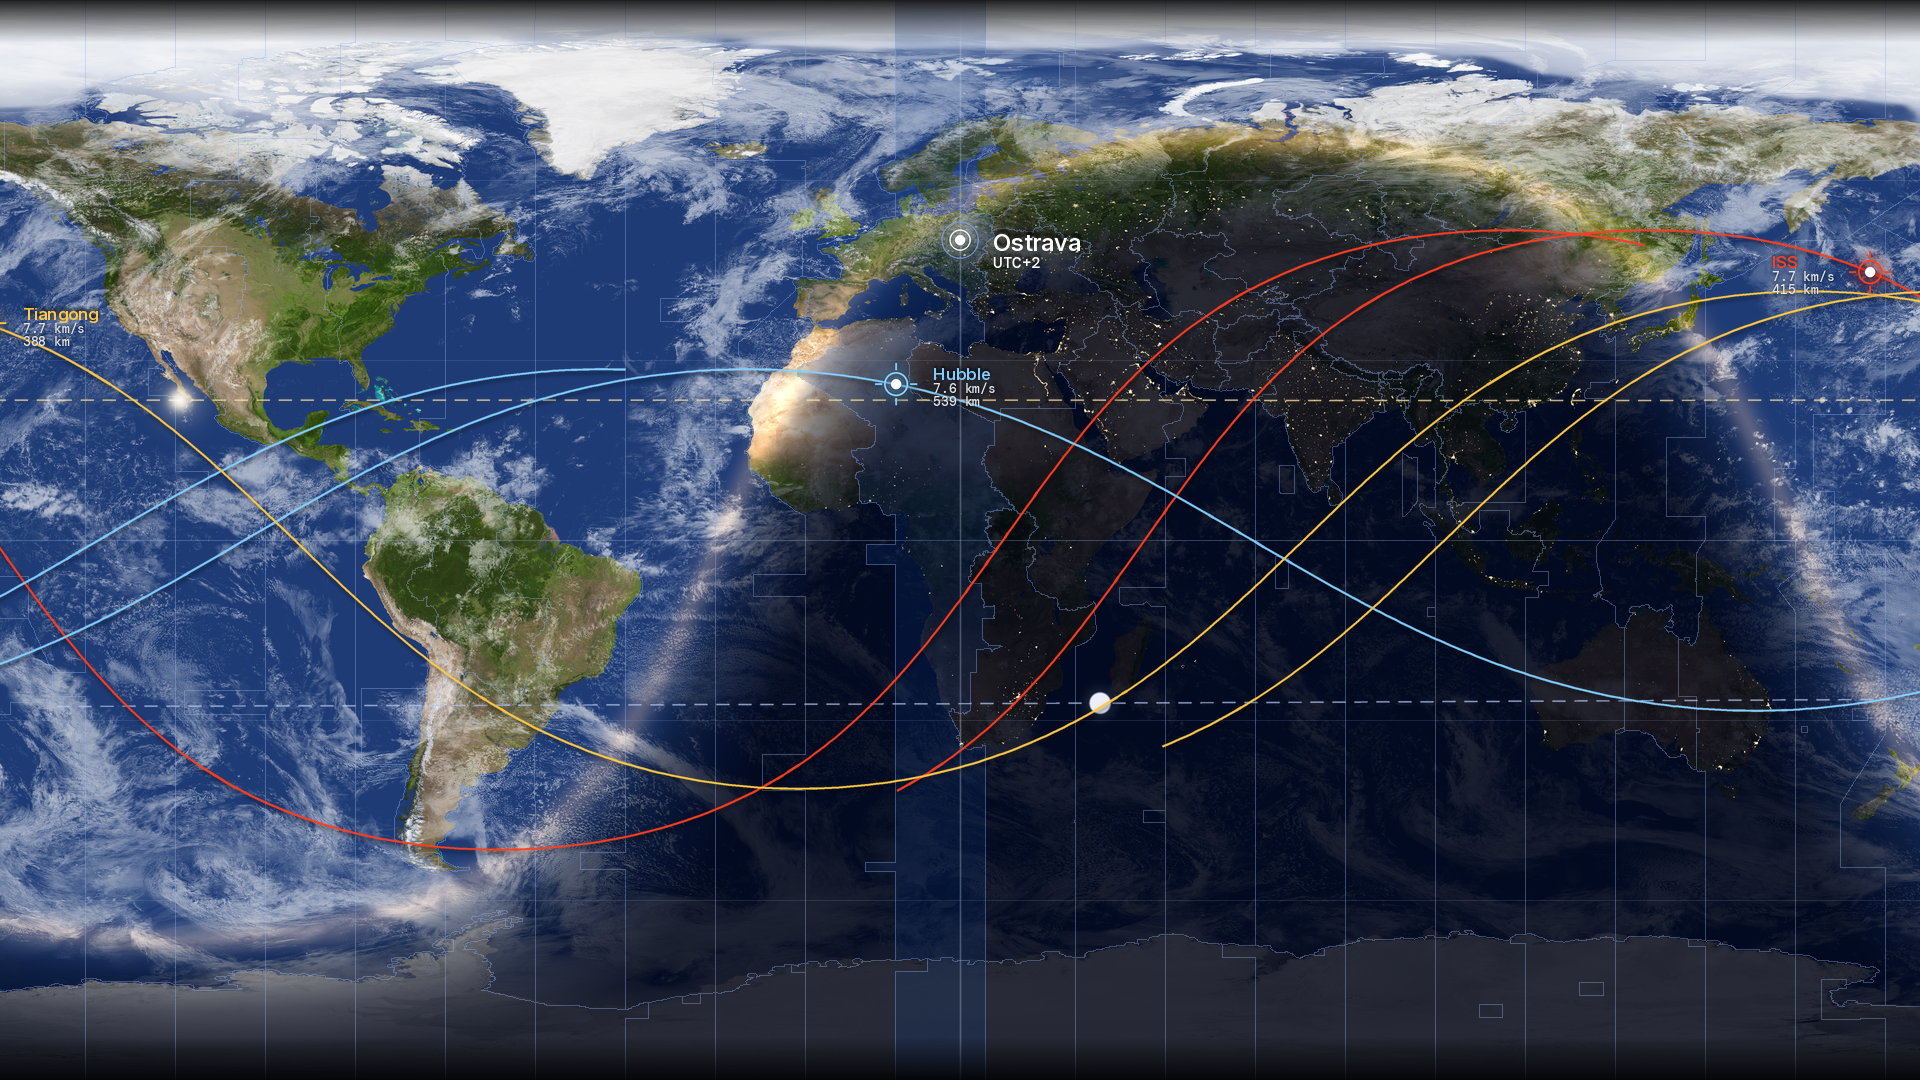
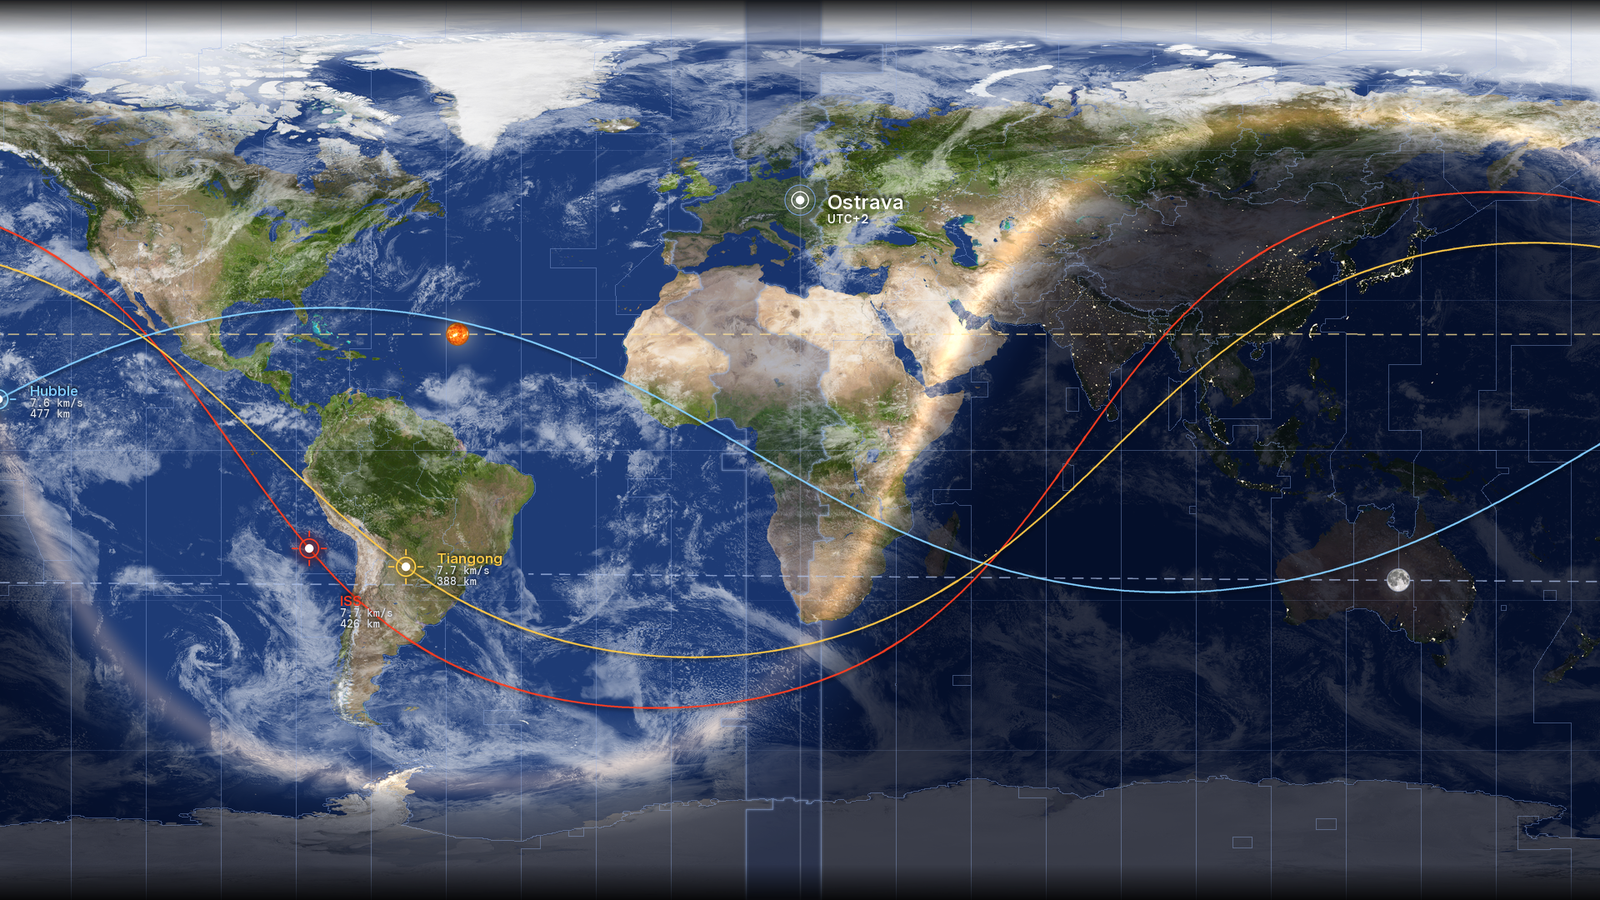
Aktualizace náhledu (docs/nahled.png) a README
Nový náhled ukazuje skutečný povrch Slunce i Měsíce, souvislé dráhy družic
od kraje ke kraji, tmavě modré zvýraznění pásma a světlejší noční stranu.

diff --git a/README.md b/README.md
@@ -16,7 +16,7 @@ Vzhled laděný do palety NASA (písma Inter + DM Mono).
 - **Mraky** (statická textura, volitelně živá z NASA GIBS)
 - **Časová pásma** ze skutečných hranic (Natural Earth) + zvýraznění pásma města
 - **Vystředění na libovolné město** (výchozí Ostrava) + maják s názvem a UTC posunem
-- **Slunce a Měsíc** — subsolární/sublunární bod, přerušované dráhy, Měsíc se skutečným povrchem a fází
+- **Slunce a Měsíc se skutečným povrchem** — subsolární/sublunární bod, přerušované dráhy, fáze Měsíce
 - **Polární záře** na noční straně z modelu NOAA OVATION (volitelné)
 - **Družice** (ISS, Hubble, Tiangong) — pozemní stopa, terčík, výška a rychlost
 - Jemné **vržené stíny** pod popisky, dráhami i značkami; NASA paleta a fonty